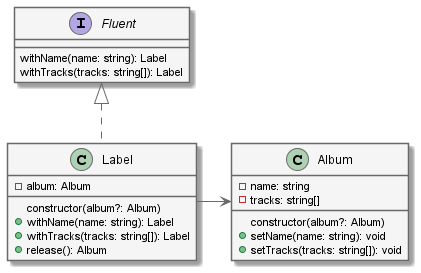
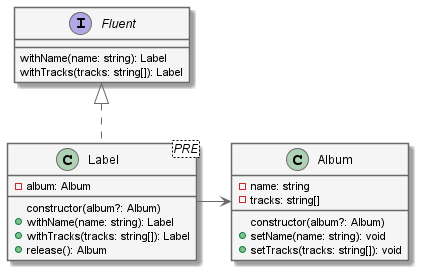
Update Fluent Interface pattern

Changed region(s): [[0.1235, 0.5275, 0.3088, 0.6447], [0.4014, 0.4982, 0.4941, 0.5861]]

diff --git a/README.md b/README.md
@@ -195,13 +195,13 @@ const sculpture = sculptorStudio.createMasterpiece();
 console.log(sculpture); // "created a sculpture"
 ```
 
-## <a name="fluent-interface">Fluent interface</a> [creational*] [&#8657;](#list)
+## <a name="fluent-interface">Fluent interface</a> [creational] [&#8657;](#list)
 
 Fluent interface allows you to create and edit objects using method chaining.
 
 #### UML diagram:
 
-![fluent-interface](https://user-images.githubusercontent.com/21959354/117580632-2c35ca00-b0f9-11eb-92b1-8f6cf04030bc.png)
+![fluent-interface](https://user-images.githubusercontent.com/21959354/117581265-3ad1b080-b0fc-11eb-9b88-453de1791c33.png)
 
 #### Client code:
 
